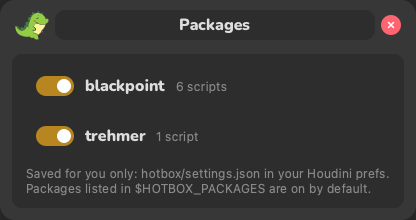
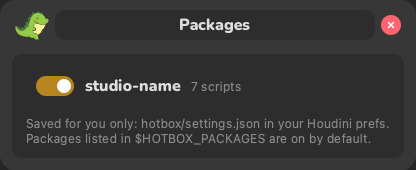
README: GIF without vanishing buttons, package names replaced by studio-name
- GIF frames share one palette: per frame palettes with Pillow's frame optimization dropped
  buttons (Create Vop vanished in some frames)
- images are made from a copy of lib/ where every package is called studio-name; README examples
  use studio-name too

diff --git a/docs/make_images.py b/docs/make_images.py
@@ -3,9 +3,12 @@
     uv run --with pillow python docs/make_images.py
 
 hou is stubbed like in the tests, so Houdini icons (SOP_null, OBJ_camera...) are not drawn.
+The images use a copy of lib/ where every package is called 'studio-name': no real studio names in public images.
 """
 import builtins
 import os
+import re
+import shutil
 import sys
 import tempfile
 import types
@@ -28,6 +31,17 @@ from PySide6.QtTest import QTest
 
 BACKGROUND = QColor("#262626")
 FRAME_MS = 33
+PACKAGE = "studio-name"
+
+
+def anonymousLibrary() -> Path:
+    """Copy of lib/ with every #package renamed to PACKAGE; returns the folder that contains 'lib'"""
+    work = Path(tempfile.mkdtemp())
+    shutil.copytree(ROOT / "lib", work / "lib", ignore=shutil.ignore_patterns("__pycache__"))
+    for script in (work / "lib").rglob("*.py"):
+        text = script.read_text(encoding="utf-8")
+        script.write_text(re.sub(r"(?m)^#package:.*$", f"#package:{PACKAGE}", text), encoding="utf-8")
+    return work
 
 
 class Swatch(QtWidgets.QPushButton):
@@ -63,10 +77,12 @@ def main():
     from hotbox import main as hotbox_main
     from hotbox.utils import manager, settings, utility
 
-    settings.setPackageEnabled("blackpoint", True)  # the full camera menu in the images
+    work = anonymousLibrary()
+    os.chdir(work)  # relative lib path: no personal absolute paths in the File field of a public image
+    settings.setPackageEnabled(PACKAGE, True)  # the full camera menu in the images
 
     utility.detectContext = lambda: utility.Context("single", "cam", "cam", None)
-    box = hotbox_main.HotBox()
+    box = hotbox_main.HotBox(lib_dir=Path("lib"))
     box._fadeAnimation.stop()
     box.setWindowOpacity(1)
     app.processEvents()
@@ -94,8 +110,6 @@ def main():
     box.close()
     saveGif(frames, DOCS / "hotbox_animation.gif")
 
-    settings.setPackageEnabled("trehmer", True)  # Save HIP is shown in the manager
-    os.chdir(ROOT)  # relative lib path: no personal absolute paths in the File field of a public image
     script_manager = manager.ScriptManager(lib_folder=Path("lib"))
     script_manager._fadeAnimation.stop()
     script_manager.setWindowOpacity(1)
@@ -113,22 +127,30 @@ def main():
     QTest.qWait(300)
     app.processEvents()
     onBackground(packages, pad=0).save((DOCS / "packages.png").as_posix())
+    os.chdir(ROOT)
+    shutil.rmtree(work, ignore_errors=True)
     print("docs images updated")
 
 
 def saveGif(frames, path: Path):
+    """One palette for all frames: per frame palettes made Pillow's frame optimization drop buttons"""
     with tempfile.TemporaryDirectory() as folder:
         images = []
         for index, frame in enumerate(frames):
             png = Path(folder, f"{index:03d}.png")
             frame.save(png.as_posix())
             image = Image.open(png).convert("RGB")
-            image = image.resize((image.width * 3 // 4, image.height * 3 // 4), Image.LANCZOS)
-            images.append(image.quantize(colors=128, method=Image.Quantize.MEDIANCUT, dither=Image.Dither.NONE))
-    durations = [FRAME_MS] * len(images)
+            images.append(image.resize((image.width * 3 // 4, image.height * 3 // 4), Image.LANCZOS))
+    # The palette from all frames side by side, so hover colors are in it too
+    sheet = Image.new("RGB", (images[0].width, images[0].height * len(images)))
+    for index, image in enumerate(images):
+        sheet.paste(image, (0, image.height * index))
+    palette = sheet.quantize(colors=255, method=Image.Quantize.MEDIANCUT, dither=Image.Dither.NONE)
+    paletted = [image.quantize(palette=palette, dither=Image.Dither.NONE) for image in images]
+    durations = [FRAME_MS] * len(paletted)
     durations[-1] = 900
-    images[0].save(path, save_all=True, append_images=images[1:], duration=durations, loop=0, optimize=True,
-                   disposal=1)
+    paletted[0].save(path, save_all=True, append_images=paletted[1:], duration=durations, loop=0, optimize=False,
+                     disposal=1)
 
 
 if __name__ == "__main__":

diff --git a/README.md b/README.md
@@ -86,12 +86,12 @@ Scripts that only make sense at one studio go into a package:
 
 ```python
 #label:Camera Import
-#package:blackpoint
+#package:studio-name
 ```
 
 The gear in the Script Manager title bar lists all packages with a switch each. A turned off package hides its
 buttons (and its `#ref`s) from the hotbox; scripts without `#package` are always shown. Several packages:
-`#package:blackpoint, trehmer` (shown when any of them is on).
+`#package:studio-name, other-studio` (shown when any of them is on).
 
 <img src="docs/packages.png" width="380" alt="Packages">
 
@@ -100,10 +100,11 @@ saved per user in `$HOUDINI_USER_PREF_DIR/hotbox/settings.json` (not in the tool
 packages on for everyone in `houdini.env`; the user's own switch still wins:
 
 ```
-HOTBOX_PACKAGES = "blackpoint"
+HOTBOX_PACKAGES = "studio-name"
 ```
 
-Shipped packages: `blackpoint` (Camera Import/Export/Setup, Last Alembic Track, Convert to $FILM), `trehmer` (Save HIP).
+The studio specific scripts in `lib/` (Camera Import/Export/Setup, Last Alembic Track, Convert to $FILM, Save HIP)
+are in packages: turn them on in the gear menu if you need them.
 
 ### Shared helpers: `common/`
 
